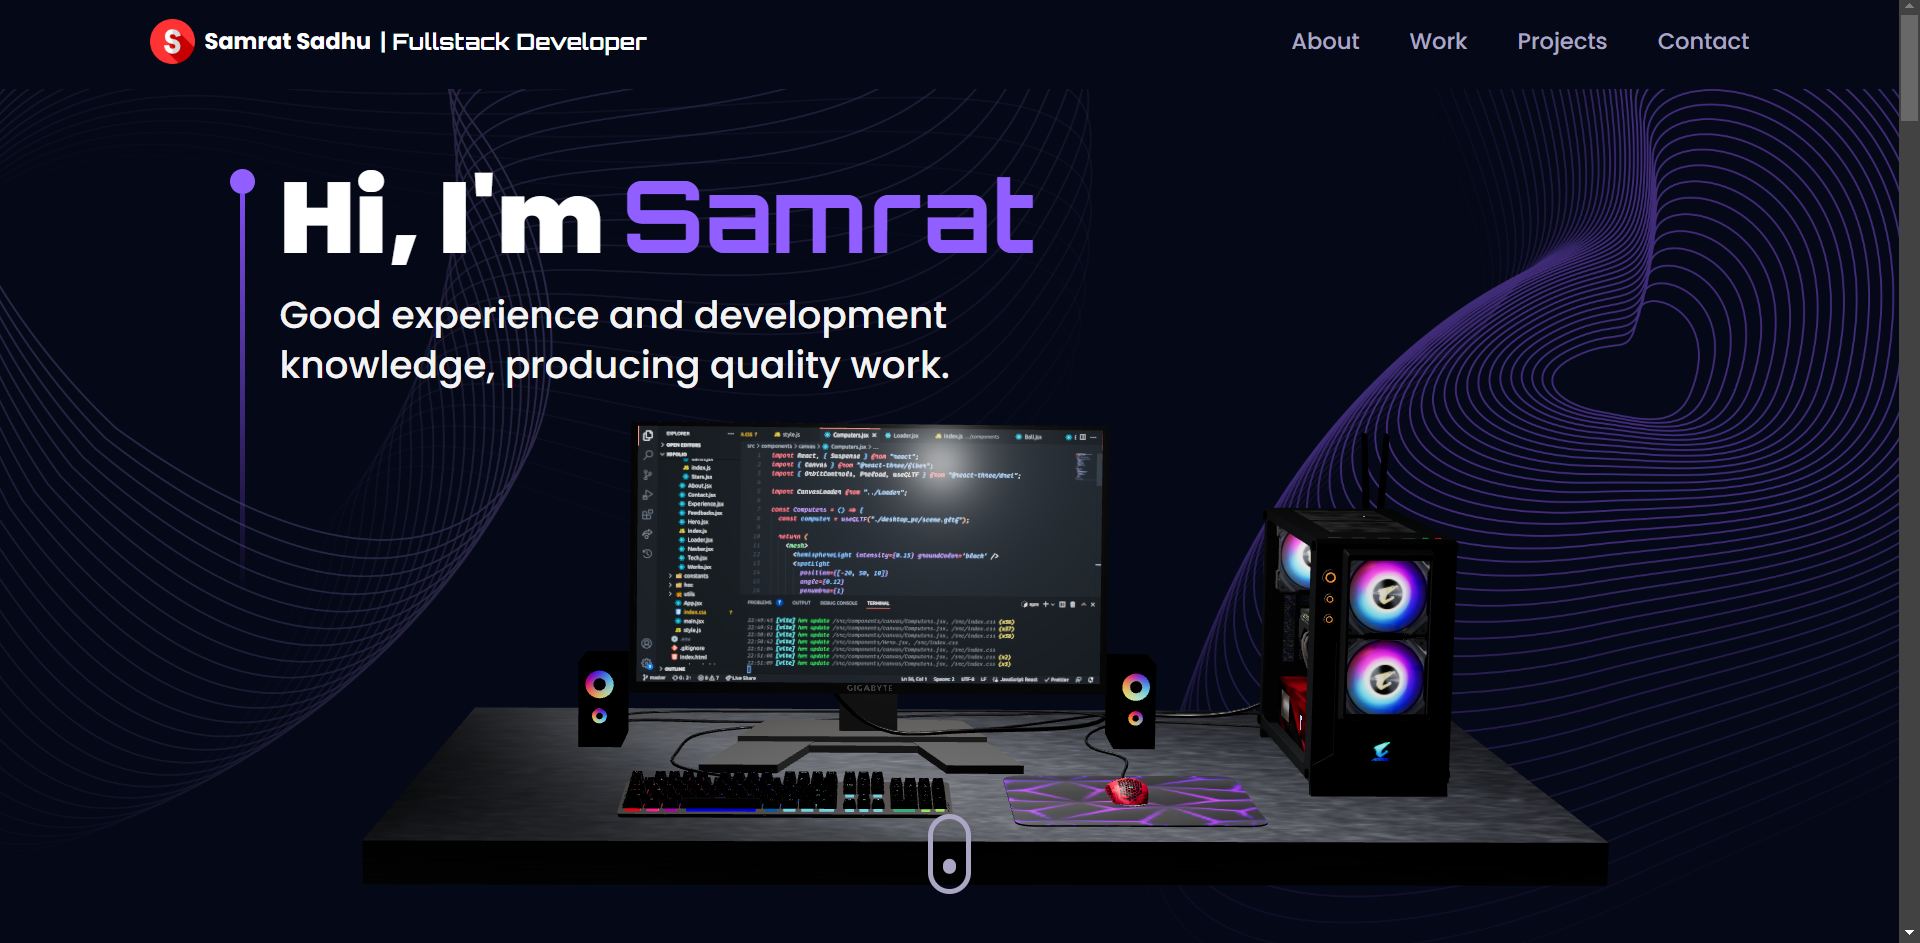
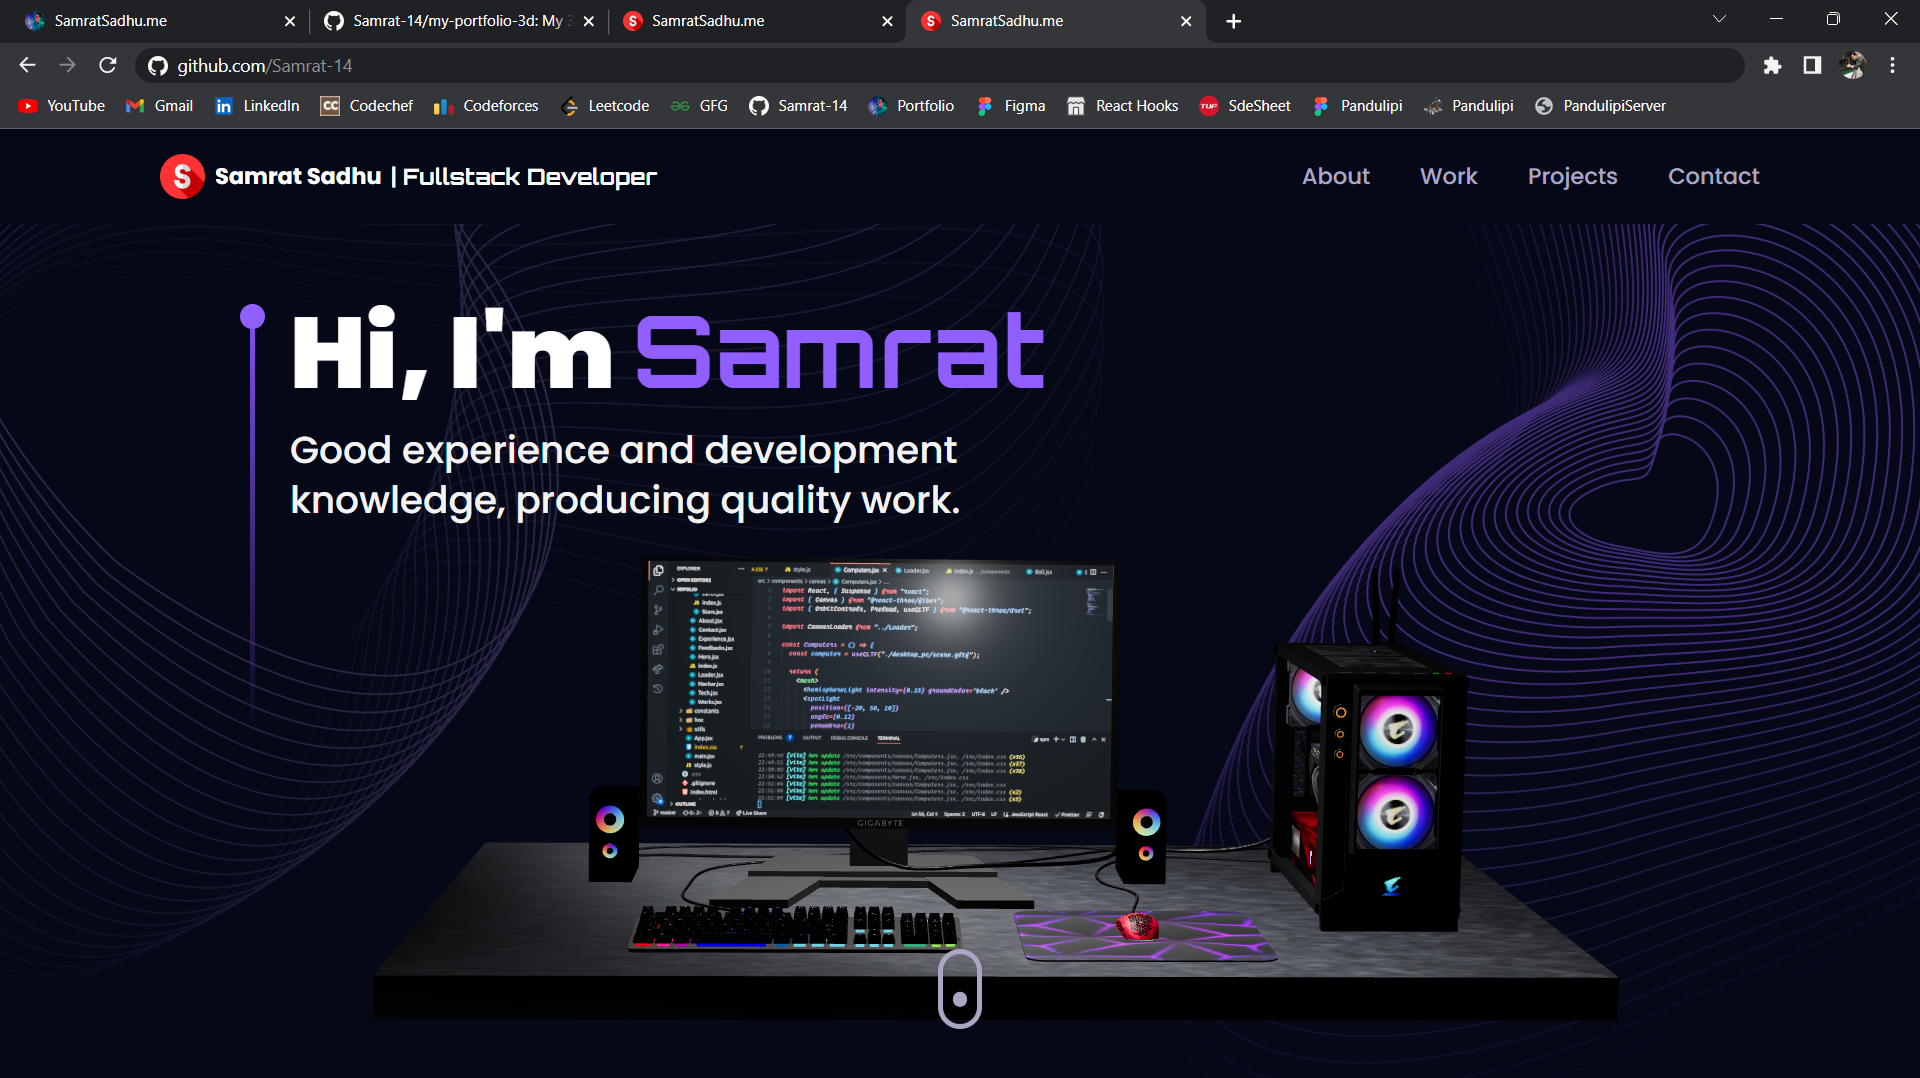
scrollbar removed

diff --git a/src/index.css b/src/index.css
@@ -14,6 +14,10 @@
     color-scheme: dark;
 }
 
+body::-webkit-scrollbar {
+    display: none;
+}
+
 .font-orbitron {
     font-family: "Orbitron", sans-serif;
 }
